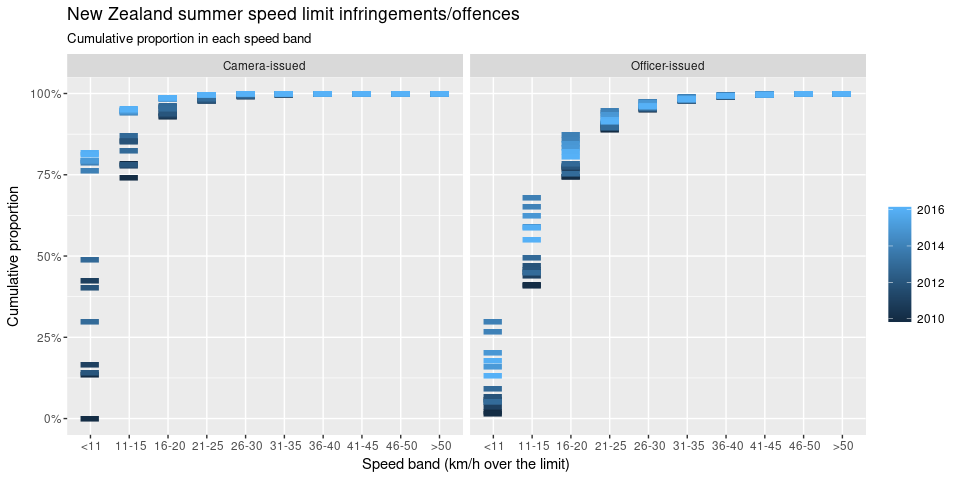
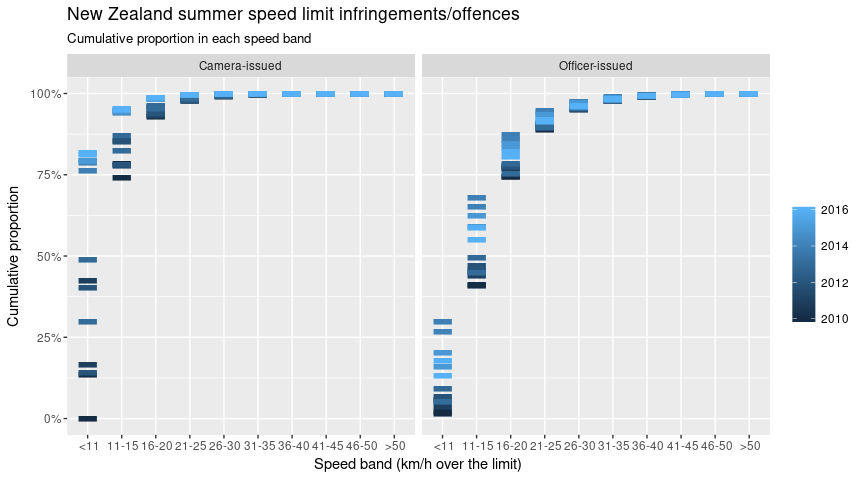
Reduce width of README figures to avoid sidebar

diff --git a/docs/index.html b/docs/index.html
@@ -74,7 +74,7 @@ devtools::<span class="kw">install_github</span>(<span class="st">"nacnudus/nzpu
 <div id="example" class="section level2">
 <h2 class="hasAnchor">
 <a href="#example" class="anchor"> </a>Example</h2>
-<p><img src="README-example-1.png" width="960"><img src="README-example-2.png" width="960"></p>
+<p><img src="README-example-1.png" width="864"><img src="README-example-2.png" width="864"></p>
 <div class="sourceCode"><pre class="sourceCode r"><code class="sourceCode r"><span class="kw">glimpse</span>(driving_offences)
 <span class="co">#&gt; Observations: 43,878</span>
 <span class="co">#&gt; Variables: 6</span>

diff --git a/README.md b/README.md
@@ -26,18 +26,6 @@ devtools::install_github("nacnudus/nzpullover")
 Example
 -------
 
-    #> Loading tidyverse: ggplot2
-    #> Loading tidyverse: tibble
-    #> Loading tidyverse: tidyr
-    #> Loading tidyverse: readr
-    #> Loading tidyverse: purrr
-    #> Loading tidyverse: dplyr
-    #> Find out what's changed in ggplot2 at
-    #> http://github.com/tidyverse/ggplot2/releases.
-    #> Conflicts with tidy packages ----------------------------------------------
-    #> filter(): dplyr, stats
-    #> lag():    dplyr, stats
-
 ![](README-example-1.png)![](README-example-2.png)
 
 ``` r
